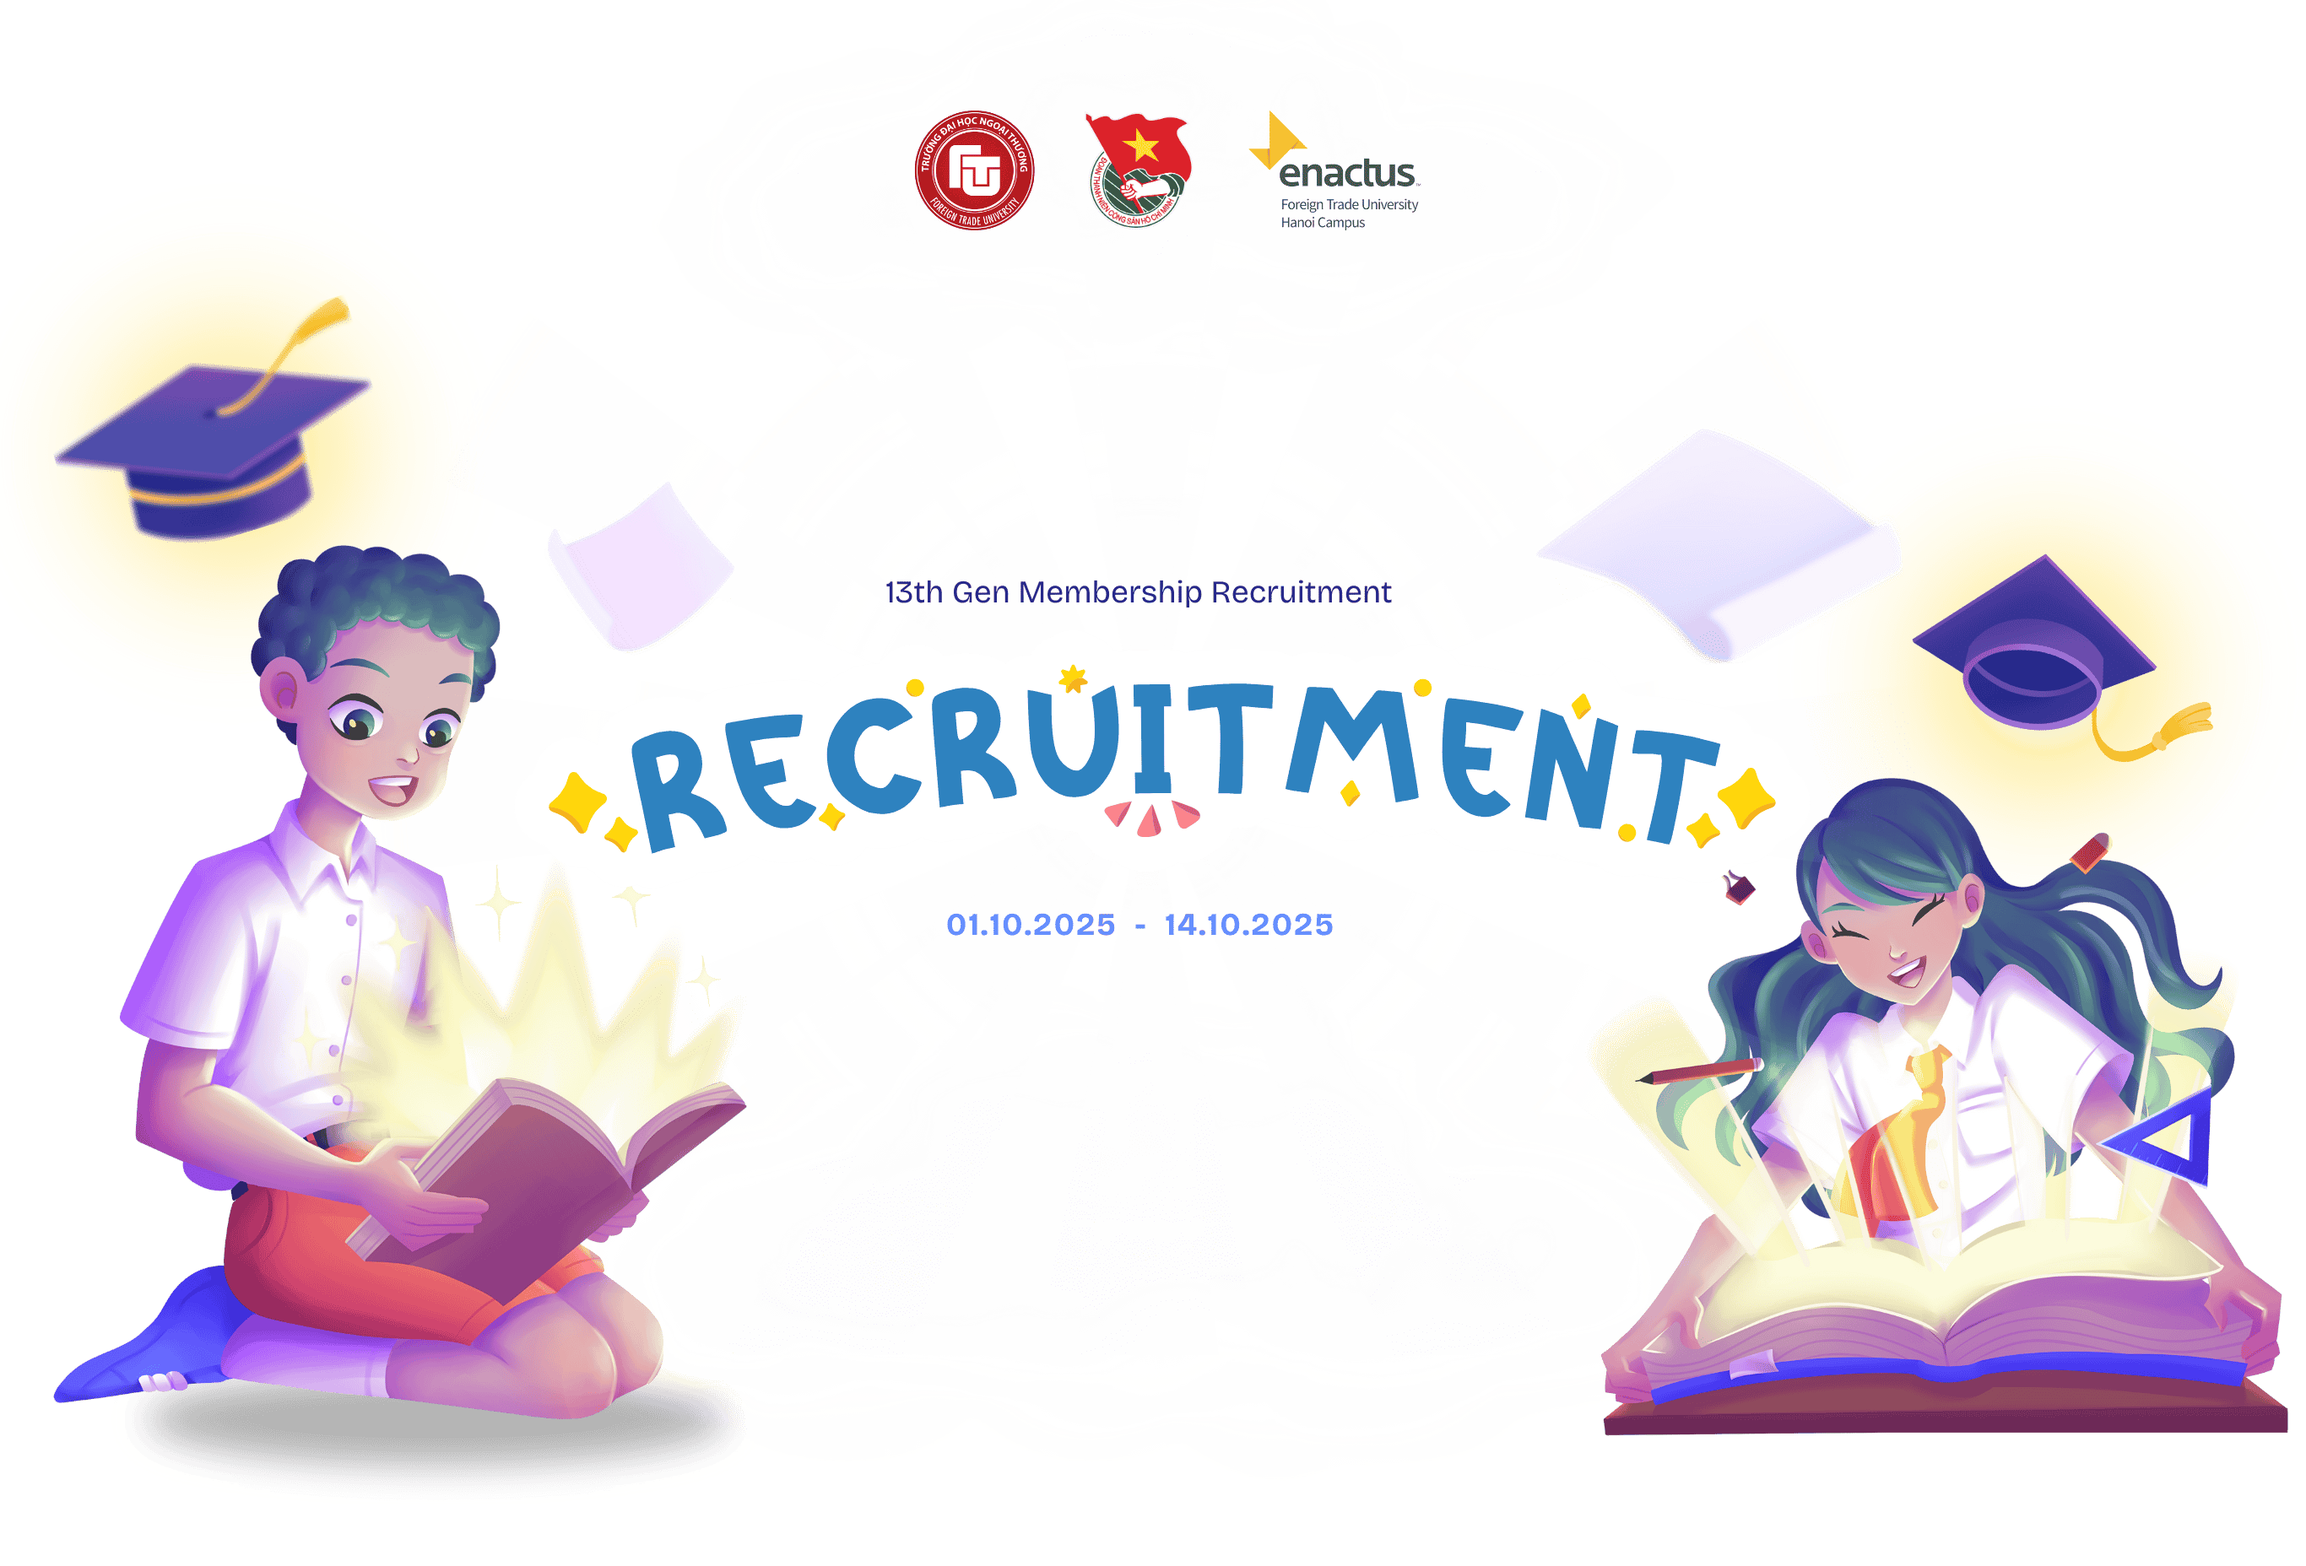
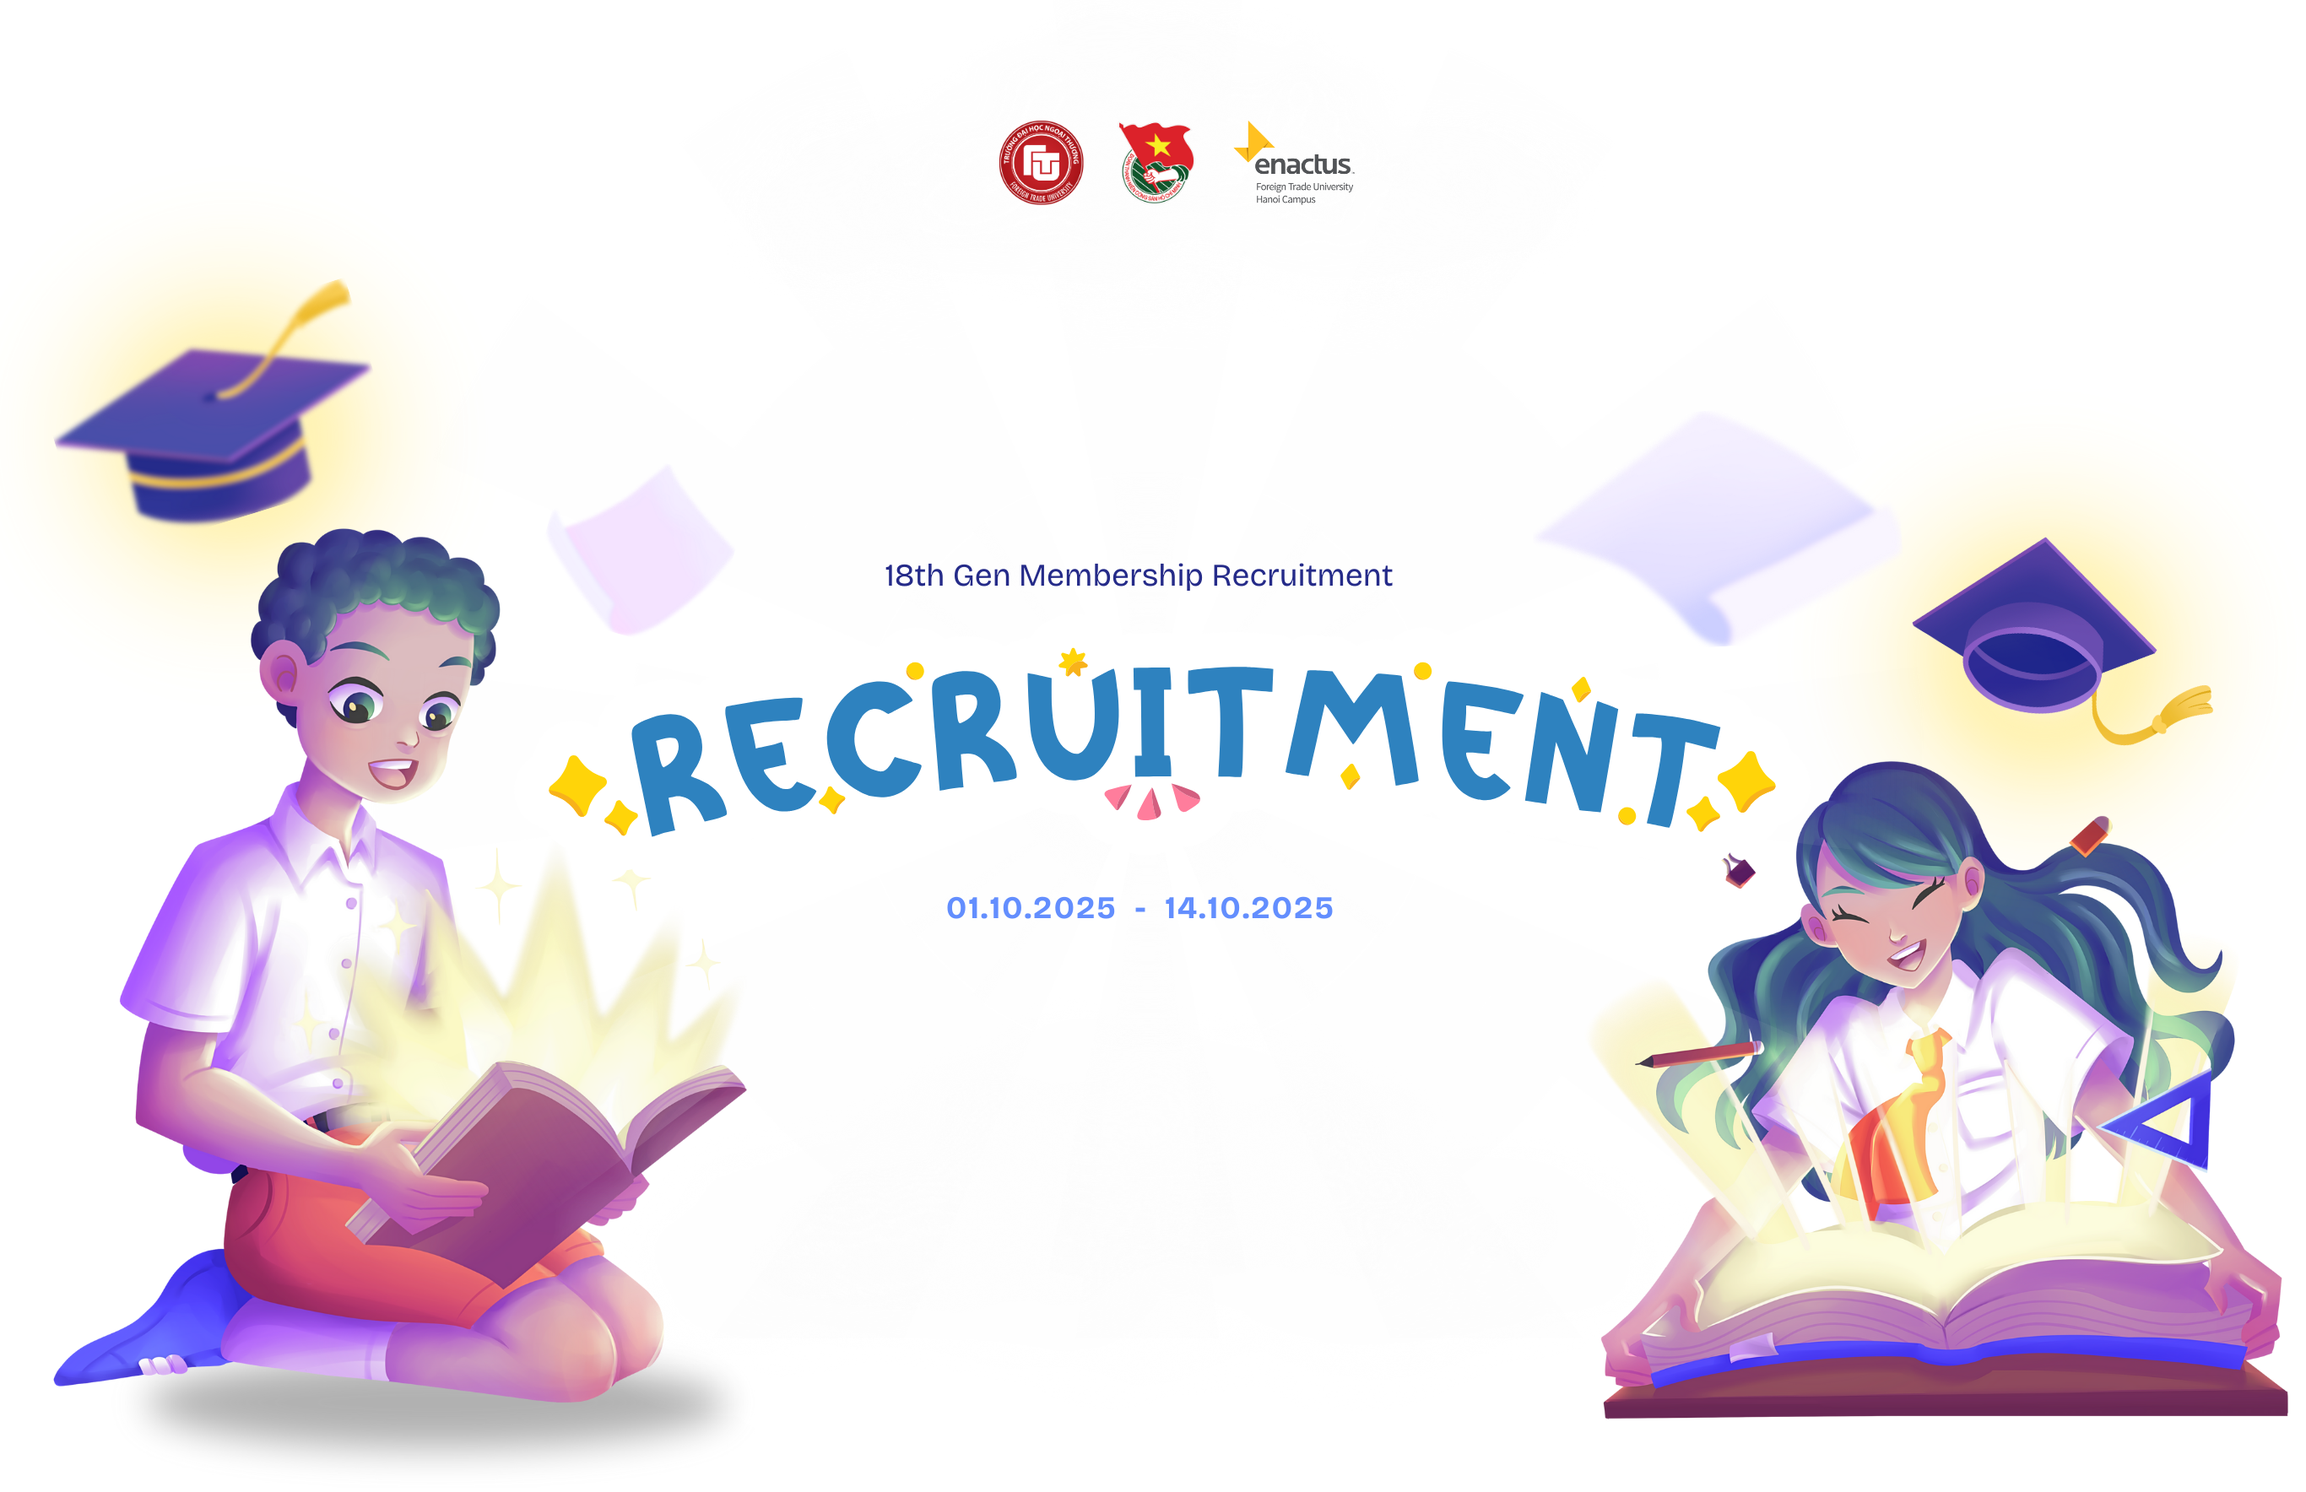
Update index

diff --git a/index.html b/index.html
@@ -3,48 +3,85 @@
 <head>
 <meta charset="utf-8"/>
 <meta content="width=device-width, initial-scale=1" name="viewport"/>
-<title>Reruitment | Enactus FTU Hanoi</title>
+<title>Recruitment | Enactus FTU Hanoi</title>
 <link rel="icon" href="/favicon.ico" type="image/x-icon">
 <link rel="canonical" href="https://recruitment.enactusftuhanoi.id.vn" />
     
-  <meta name="description" content="Enactus FTU Hanoi - CLB duy nhất chạy dự án xã hội tại FTU, trao quyền cho đối tượng yếu thế, nâng cao chất lượng cuộc sống qua các dự án bền vững.">
-  <meta name="keywords" content="Enactus FTU Hanoi, dự án xã hội, khởi nghiệp xã hội, câu lạc bộ FTU, sinh viên ngoại thương, dự án cộng đồng">
-  <meta name="author" content="Enactus FTU Hanoi">
-  
-  <!-- Open Graph -->
-  <meta property="og:title" content="Enactus FTU Hanoi | Câu lạc bộ tại trường Đại học Ngoại Thương">
-  <meta property="og:description" content="CLB duy nhất chạy dự án xã hội tại FTU, trao quyền cho đối tượng yếu thế, nâng cao chất lượng cuộc sống.">
-  <meta property="og:type" content="website">
-  <meta property="og:url" content="https://recruitment.enactusftuhanoi.id.vn">
-  <meta property="og:image" content="/assets/recruitment.png">
+<!-- SEO Meta -->
+<meta name="description" content="Enactus FTU Hanoi chính thức mở đơn tuyển thành viên Gen 18.0! Hãy gia nhập CLB duy nhất tại FTU thực hiện các dự án xã hội, khởi nghiệp bền vững và tạo tác động tích cực.">
+<meta name="keywords" content="tuyển thành viên Enactus FTU Hanoi, tuyển dụng CLB FTU, recruitment FTU, câu lạc bộ xã hội FTU, Enactus, tuyển thành viên ngoại thương, CLB FTU Hanoi">
+<meta name="author" content="Enactus FTU Hanoi">
 
-  <link href="https://fonts.googleapis.com/css2?family=Montserrat:wght@400;500;600;700;800&family=Poppins:wght@300;400;500;600&display=swap" rel="stylesheet">
-  <link href="https://cdnjs.cloudflare.com/ajax/libs/font-awesome/6.0.0-beta3/css/all.min.css" rel="stylesheet"/>
-  <link href="https://unpkg.com/aos@2.3.1/dist/aos.css" rel="stylesheet"/>
-  <script src="https://unpkg.com/aos@2.3.1/dist/aos.js"></script>
-  <style>
-    * {margin:0; padding:0; box-sizing:border-box;}
+<!-- Open Graph (Facebook, Zalo, LinkedIn) -->
+<meta property="og:title" content="18th Gen Membership Recruitment | Enactus FTU Hanoi">
+<meta property="og:description" content="Đừng bỏ lỡ cơ hội trở thành một phần của Enactus FTU Hanoi - CLB duy nhất tại FTU triển khai các dự án xã hội và khởi nghiệp bền vững. Ứng tuyển ngay hôm nay!">
+<meta property="og:type" content="website">
+<meta property="og:url" content="https://recruitment.enactusftuhanoi.id.vn">
+<meta property="og:image" content="/assets/recruitment.png">
 
-    /* Background cố định */
-    body {
-      height: 100vh;
-      background: url("/assets/background.png") no-repeat center center fixed;
-      background-size: cover;
-      display: flex;
-      justify-content: center;
-      align-items: center;
-    }
+<!-- Twitter Card -->
+<meta name="twitter:card" content="summary_large_image">
+<meta name="twitter:title" content="18th Gen Membership Recruitment | Enactus FTU Hanoi">
+<meta name="twitter:description" content="Enactus FTU Hanoi mở đơn tuyển thành viên mới! Cùng tạo tác động xã hội tích cực qua các dự án bền vững.">
+<meta name="twitter:image" content="/assets/recruitment.png">
 
-    /* Hero image giữa màn hình */
-    .hero-img {
-      width: 90vw;   /* chiếm 90% chiều rộng màn hình */
-      height: auto;
-      max-height: 90vh; /* không vượt quá chiều cao màn hình */
-      object-fit: contain;
-    }
-  </style>
+<!-- Font -->
+<link href="https://fonts.googleapis.com/css2?family=Bricolage+Grotesque:wght@700&display=swap" rel="stylesheet">
+
+<link href="https://cdnjs.cloudflare.com/ajax/libs/font-awesome/6.0.0-beta3/css/all.min.css" rel="stylesheet"/>
+<link href="https://unpkg.com/aos@2.3.1/dist/aos.css" rel="stylesheet"/>
+<script src="https://unpkg.com/aos@2.3.1/dist/aos.js"></script>
+<style>
+  * {margin:0; padding:0; box-sizing:border-box;}
+
+  body {
+    min-height: 100vh;
+    background: url("/assets/background.png") no-repeat center top fixed;
+    background-size: cover;
+    display: flex;
+    flex-direction: column;
+    justify-content: flex-start;
+    align-items: center;
+    position: relative;
+  }
+
+  /* Hero image */
+  .hero-img {
+    width: 100vw;
+    height: auto;
+    max-height: 100vh;
+    object-fit: contain;
+  }
+
+  /* Button */
+  .apply-btn {
+    position: absolute;
+    bottom: 6.5cm; /* dịch lên 5cm */
+    padding: 16px 42px;
+    font-size: 1.3rem;
+    font-weight: 700;
+    font-family: 'Bricolage Grotesque', sans-serif;
+    color: #fbfbd6;
+    background: #7c77df;
+    border: 5px solid #638efe; /* viền dày hơn */
+    border-radius: 40px; /* bo tròn mạnh */
+    cursor: pointer;
+    text-decoration: none;
+    transition: transform 0.2s ease, box-shadow 0.2s ease;
+  }
+  .apply-btn:hover {
+    transform: translateY(-3px);
+    box-shadow: 0 6px 16px rgba(0,0,0,0.25);
+  }
+</style>
+
 </head>
 <body>
   <img src="/assets/hero.png" alt="Hero" class="hero-img">
+
+  <!-- Button Apply -->
+  <a href="/user/form.html" target="_blank" class="apply-btn">
+    ĐĂNG KÝ NGAY
+  </a>
 </body>
 </html>
